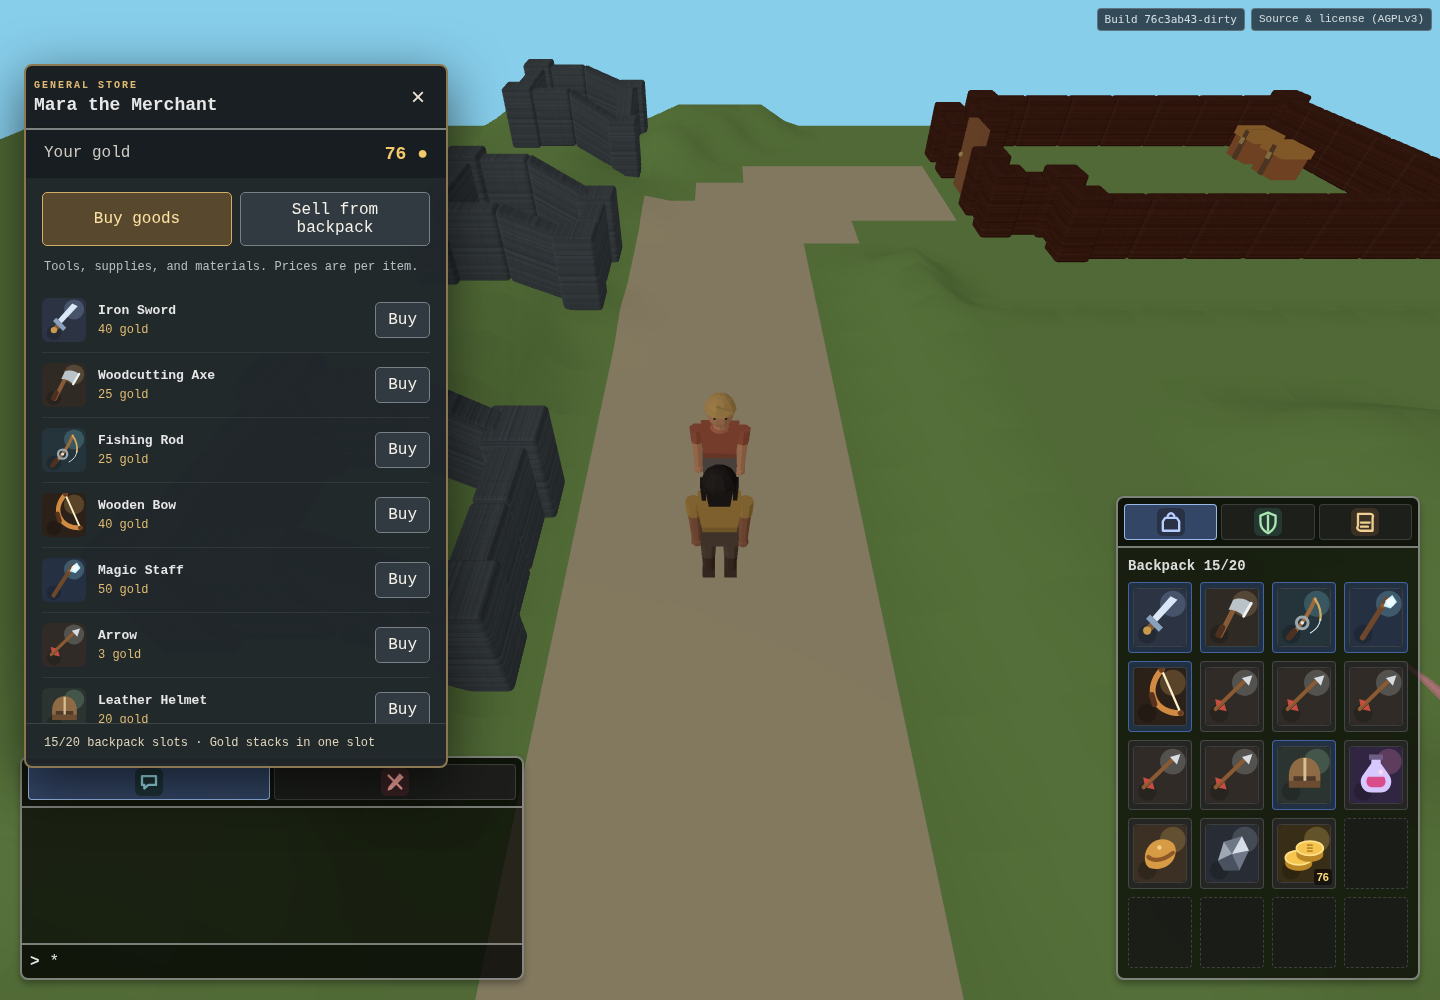
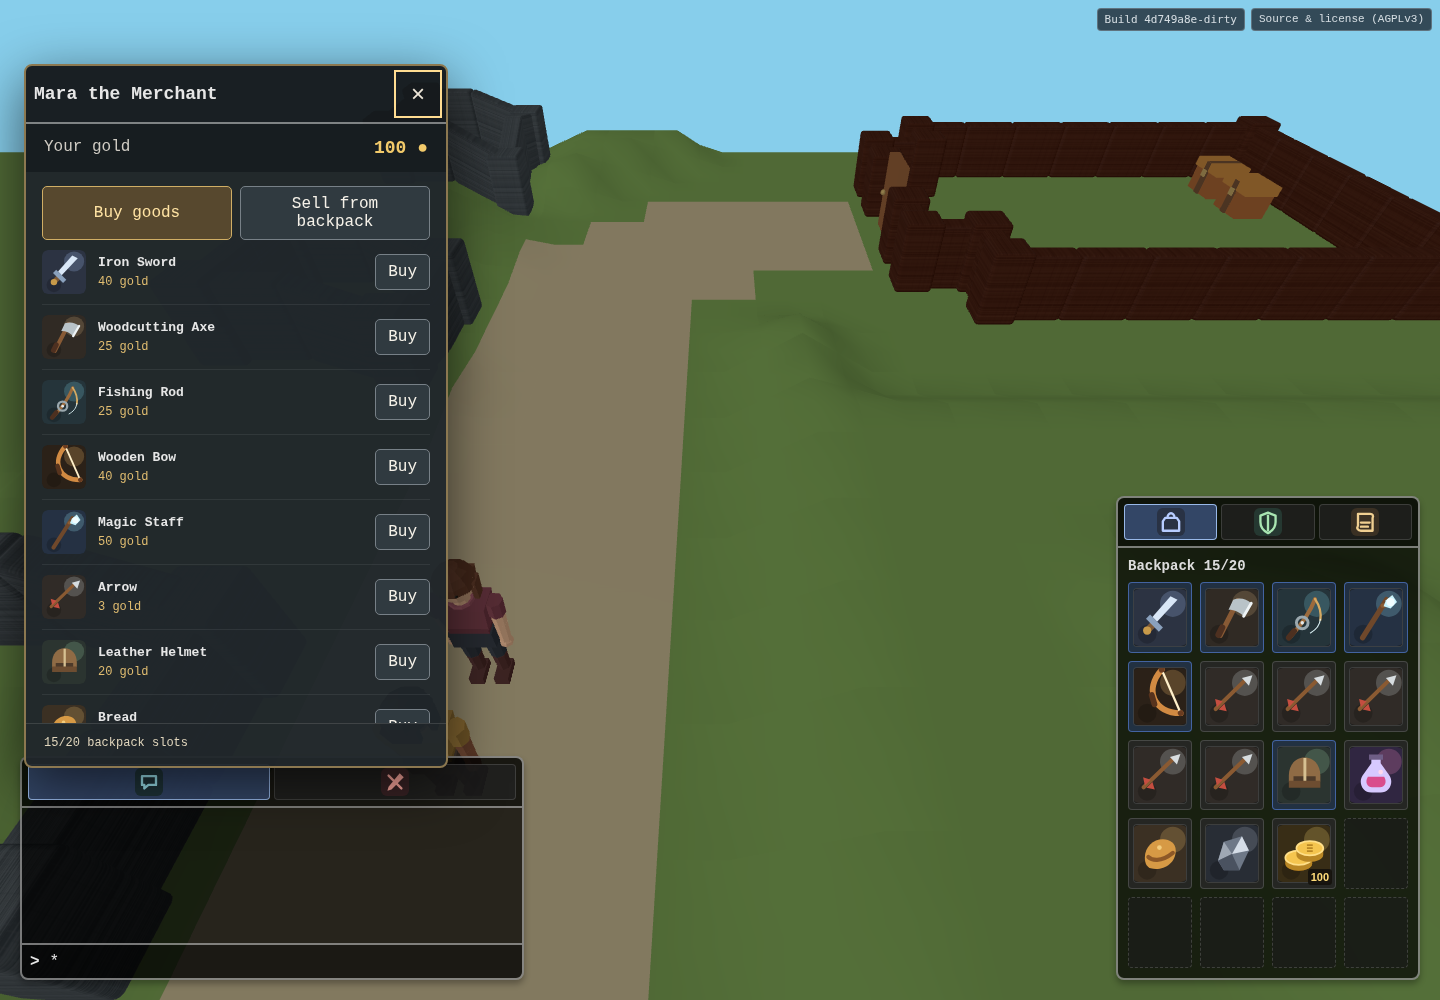
remove redundant shop guidance

diff --git a/client/ui/components/shopPanel.tsx b/client/ui/components/shopPanel.tsx
@@ -92,7 +92,7 @@ export default function ShopPanel({ game }: { game: Game }) {
       onPointerLeave={() => game.setPointerOverUi(false)}
       onPointerUp={(event) => { if (event.pointerType !== "mouse") game.setPointerOverUi(false); }}>
       <div className={`${panelStyles.panelHeader} ${styles.header}`}>
-        <div><span className={styles.eyebrow}>GENERAL STORE</span><span id="shop-title">{shop.name}</span></div>
+        <span id="shop-title">{shop.name}</span>
         <button ref={closeRef} type="button" className={styles.close} aria-label="Close shop"
           onClick={() => game.handleTradeClose(shop.targetId)}>×</button>
       </div>
@@ -101,7 +101,7 @@ export default function ShopPanel({ game }: { game: Game }) {
         <button type="button" aria-pressed={tab === "buy"} onClick={() => { setTab("buy"); setFeedback(""); }}>Buy goods</button>
         <button type="button" aria-pressed={tab === "sell"} onClick={() => { setTab("sell"); setFeedback(""); }}>Sell from backpack</button>
       </div>
-      <p className={styles.hint}>{tab === "buy" ? "Tools, supplies, and materials. Prices are per item." : "Sell gathered materials and spare gear for gold."}</p>
+      {tab === "sell" && <p className={styles.hint}>Sell gathered materials and spare gear for gold.</p>}
       <div ref={itemsRef} className={styles.items}>
         {rows.map(({ item, offer }) => {
           const price = tab === "buy" ? offer.buyPrice : offer.sellPrice;
@@ -117,7 +117,7 @@ export default function ShopPanel({ game }: { game: Game }) {
         })}
         {rows.length === 0 && <p className={styles.empty}>No items this shop buys. Try gathering logs or catching fish.</p>}
       </div>
-      <div className={styles.footer} role="status" aria-live="polite">{pending ? "Trading…" : feedback || `${shop.items.length}/20 backpack slots · Gold stacks in one slot`}</div>
+      <div className={styles.footer} role="status" aria-live="polite">{pending ? "Trading…" : feedback || `${shop.items.length}/20 backpack slots`}</div>
     </section>
   );
 }

diff --git a/client/ui/components/shopPanel.module.css b/client/ui/components/shopPanel.module.css
@@ -7,9 +7,7 @@
   background: #20272bf5; border-color: #8c7850;
   box-shadow: 0 16px 55px #0009;
 }
-.header { min-height: 64px; height: auto; flex-shrink: 0; display: flex; justify-content: space-between; align-items: center; }
-.header > div { display: flex; flex-direction: column; gap: 4px; }
-.eyebrow { font-size: 10px; letter-spacing: 2px; color: #e0bc72; }
+.header { min-height: 52px; height: auto; flex-shrink: 0; display: flex; justify-content: space-between; align-items: center; }
 .close { font-size: 24px; width: 40px; height: 40px; background: transparent; color: #ede6d8; border: 0; cursor: pointer; }
 .balance { display: flex; justify-content: space-between; padding: 14px 18px; color: #cfcbc3; background: #171d20; }
 .balance strong { color: #f2ca6a; font-size: 18px; }
